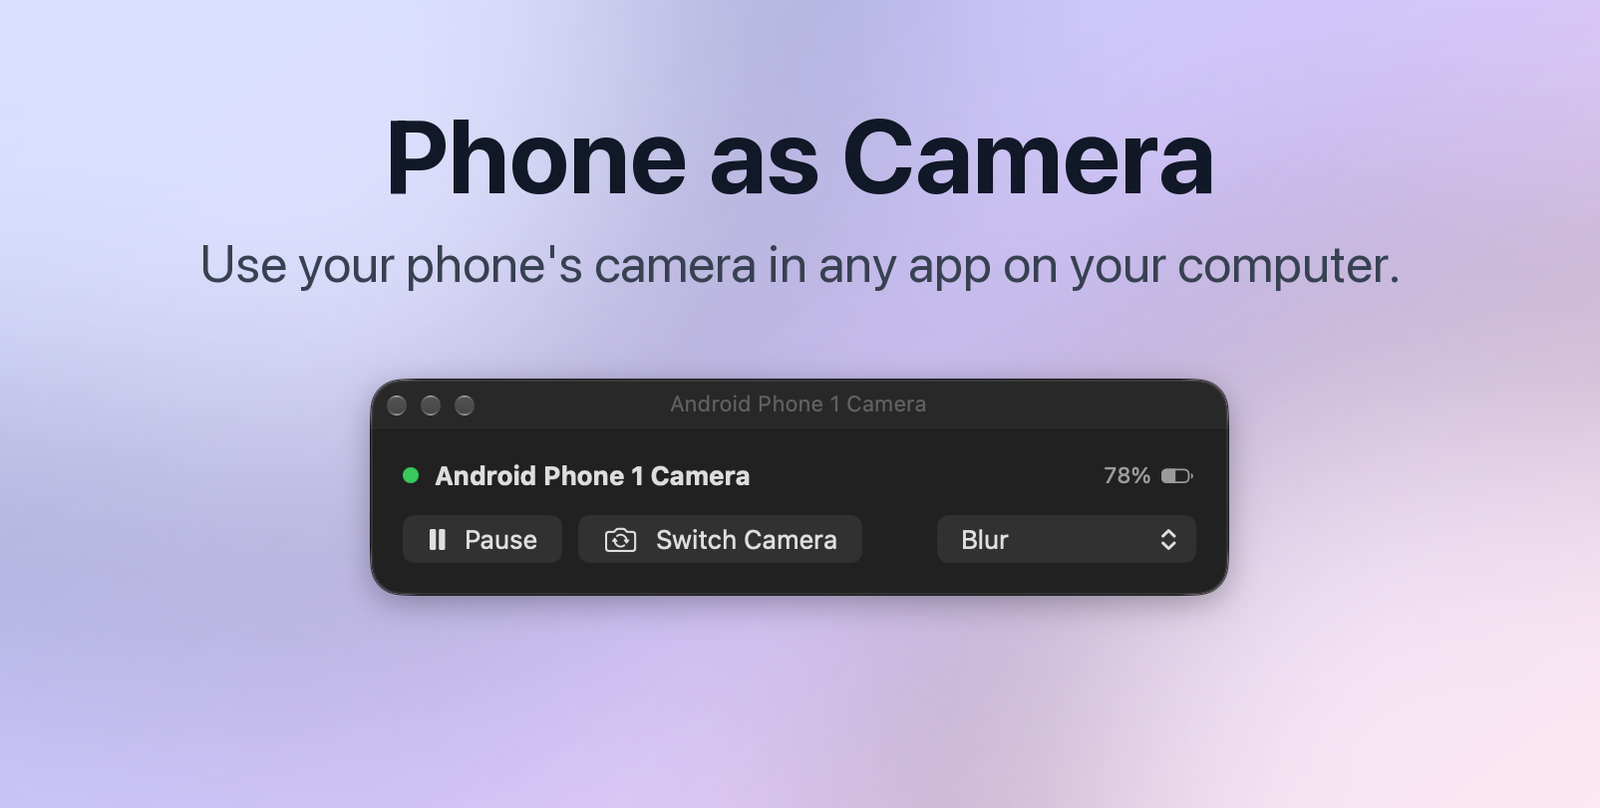
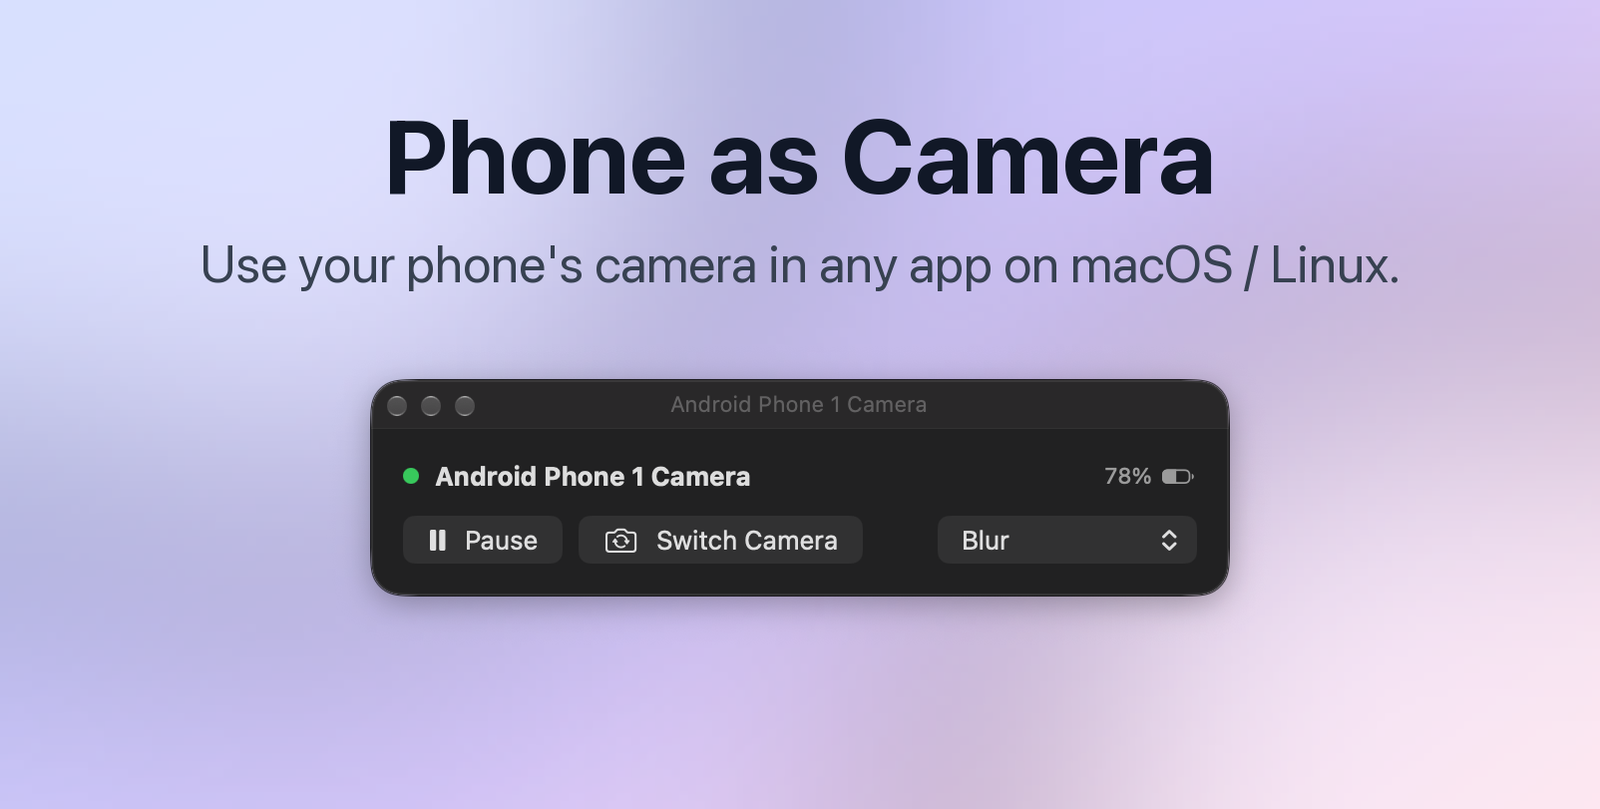
Docs and doc images say "macOS / Linux", not "PC"
The project is "Phone Link for macOS / Linux" ("Your Android phone, on your macOS / Linux.") in the
README, the screenshots page and the cover and hero images. Where the README and the image captions name
the place a feature works ("on macOS / Linux", "from macOS / Linux"), they say "macOS / Linux" instead of
"your computer"; where they name the machine itself (locking or waking it, its microphone and speakers,
storing on it, sending files between it and the phone), they keep "computer".

The doc images are re-rendered from the same captures; only their text changes.

diff --git a/README.md b/README.md
@@ -2,22 +2,22 @@
   <img src="gui/mac/Design/AppIcon.png" width="128" height="128" alt="Phone Link app icon">
 </p>
 
-<h1 align="center">Phone Link for PC</h1>
+<h1 align="center">Phone Link for macOS / Linux</h1>
 
-<p align="center">Your Android phone, on your PC.</p>
+<p align="center">Your Android phone, on your macOS / Linux.</p>
 
 <p align="center"><img src="docs/images/hero.png" alt="The Phone Link window with the notification list, and its Settings window"></p>
 
 Connects through Microsoft's Link to Windows app on your phone. Runs on macOS and Linux.
 
-Phone Link for PC is an independent project and is neither affiliated with, nor authorized,
-sponsored, or approved by, Microsoft Corporation.
+Phone Link for macOS / Linux is an independent project and is neither affiliated with, nor
+authorized, sponsored, or approved by, Microsoft Corporation.
 
 ## Features
 
-- See your phone's notifications on your computer and reply to them. You choose which apps can send them.
+- See your phone's notifications on macOS / Linux and reply to them. You choose which apps can send them.
 - Read and send SMS, MMS and RCS messages.
-- See your phone's recent calls, and place, answer, decline and end calls from your computer over
+- See your phone's recent calls, and place, answer, decline and end calls from macOS / Linux over
   Bluetooth. The call itself stays on your phone: you talk on the phone or a headset connected to it.
   Turn it on in Settings › Calls.
 - Browse your phone's contacts and write to them.
@@ -64,7 +64,7 @@ Settings, are in [docs/screenshots.md](docs/screenshots.md).
 
 - You sign in to your Microsoft account in the app's own window.
 - Your phone can't wake your computer or start a connection to it.
-- Calls you place or answer on your computer stay on your phone. You talk and listen on the phone, not
+- Calls you place or answer on macOS / Linux stay on your phone. You talk and listen on the phone, not
   through the computer's microphone and speakers, because the app has no voice link to the phone over
   Bluetooth. So there is no mute, hold, keypad or moving a call to the computer.
 - Calls reach your computer only while Phone Link is open.

diff --git a/docs/screenshots.md b/docs/screenshots.md
@@ -1,6 +1,6 @@
 # Screenshots
 
-![Phone Link for PC](images/cover.png)
+![Phone Link for macOS / Linux](images/cover.png)
 
 ![The Phone Link window with the notification list, and its Settings window](images/hero.png)
 
